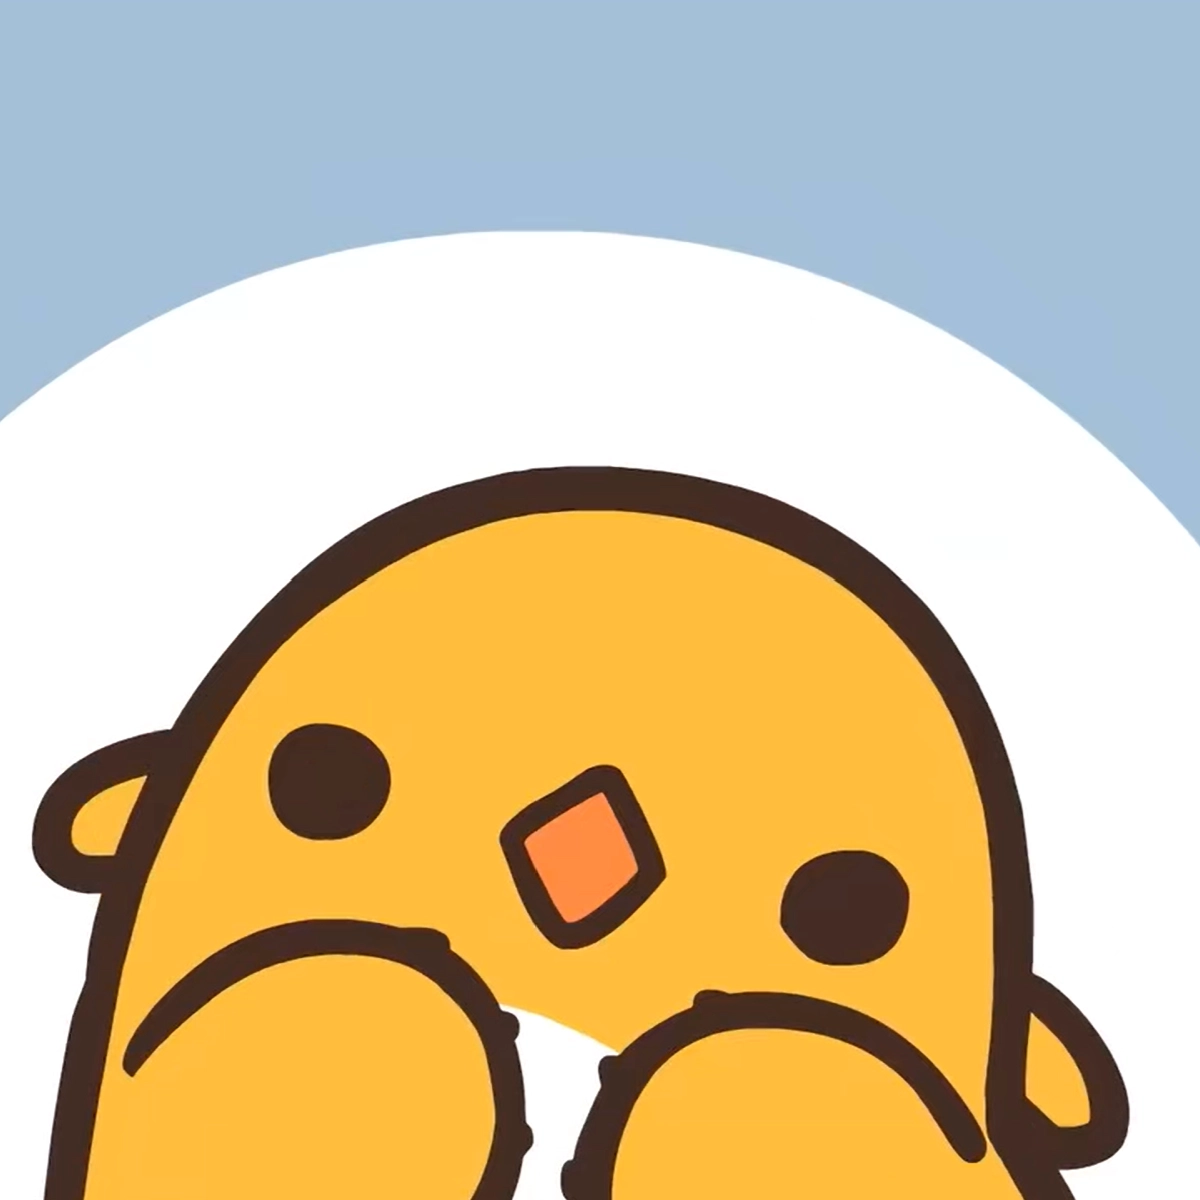
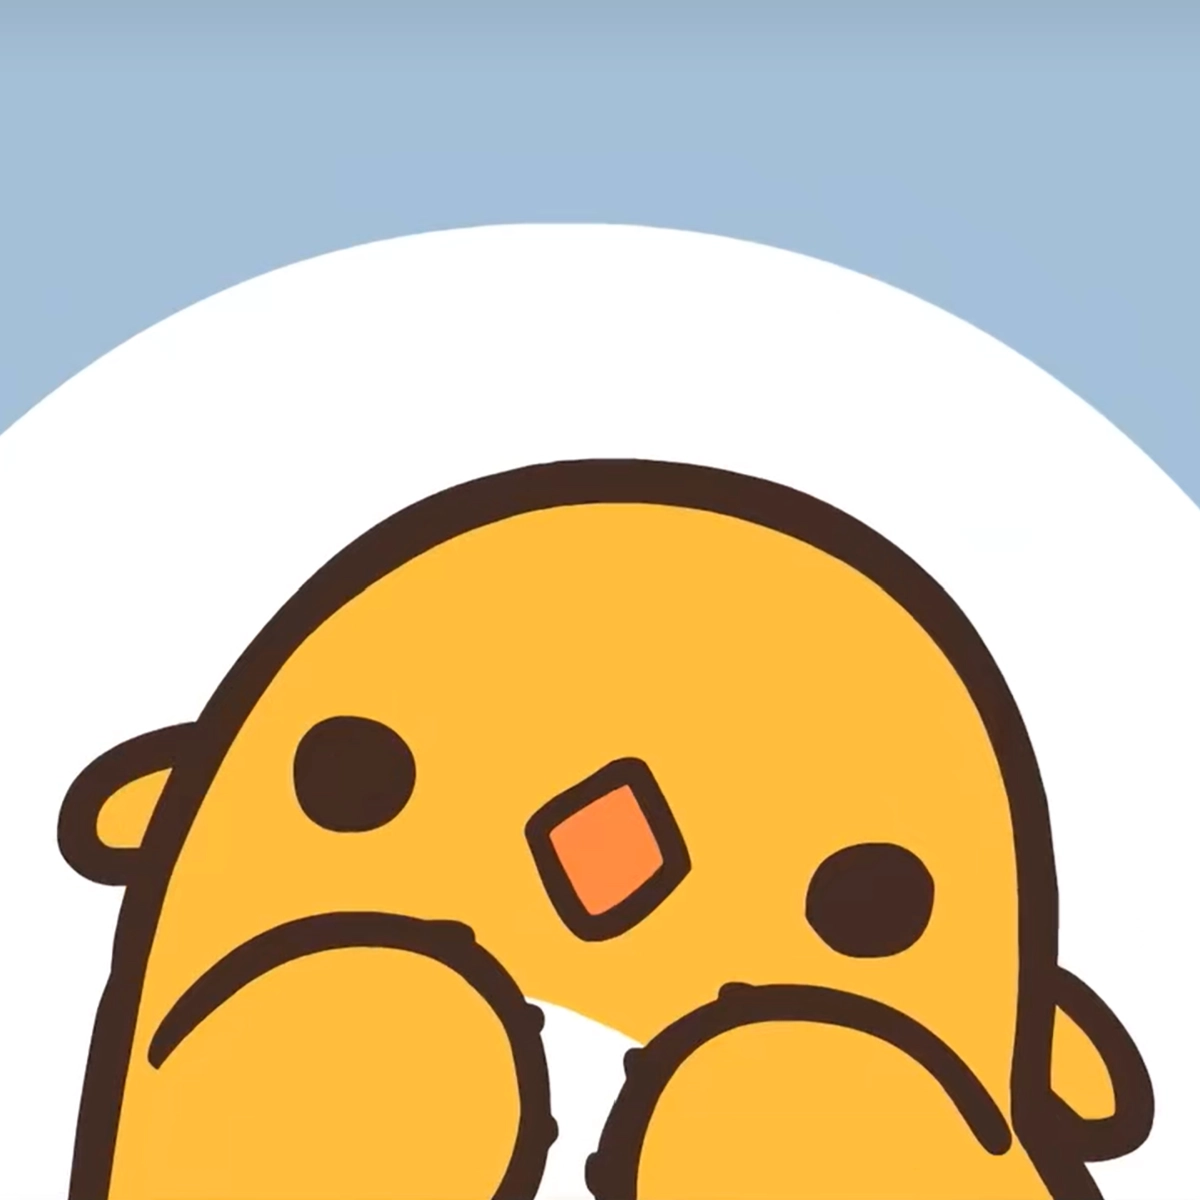
friends and profile config

diff --git a/src/config/siteConfig.ts b/src/config/siteConfig.ts
@@ -9,14 +9,14 @@ export const siteConfig: SiteConfig = {
 	title: "LocallyCH",
 
 	// 站点副标题
-	subtitle: "Demo site",
+	subtitle: "A World of Fantasy",
 
 	// 站点 URL
 	site_url: "https://locallych.top",
 
 	// 站点描述
 	description:
-		"一个更新不勤快的普通人创作的各种产品。",
+		"一个更新不勤快的普通人的扭曲幻想合集。",
 
 	// 站点关键词
 	keywords: [

diff --git a/src/config/profileConfig.ts b/src/config/profileConfig.ts
@@ -12,7 +12,7 @@ export const profileConfig: ProfileConfig = {
 	name: "LocallyCH",
 
 	// 个人签名
-	bio: "Signature",
+	bio: "可爱或不可爱的生物都不可食用！",
 
 	// 链接配置
 	// 已经预装的图标集：fa7-brands，fa7-regular，fa7-solid，material-symbols，simple-icons